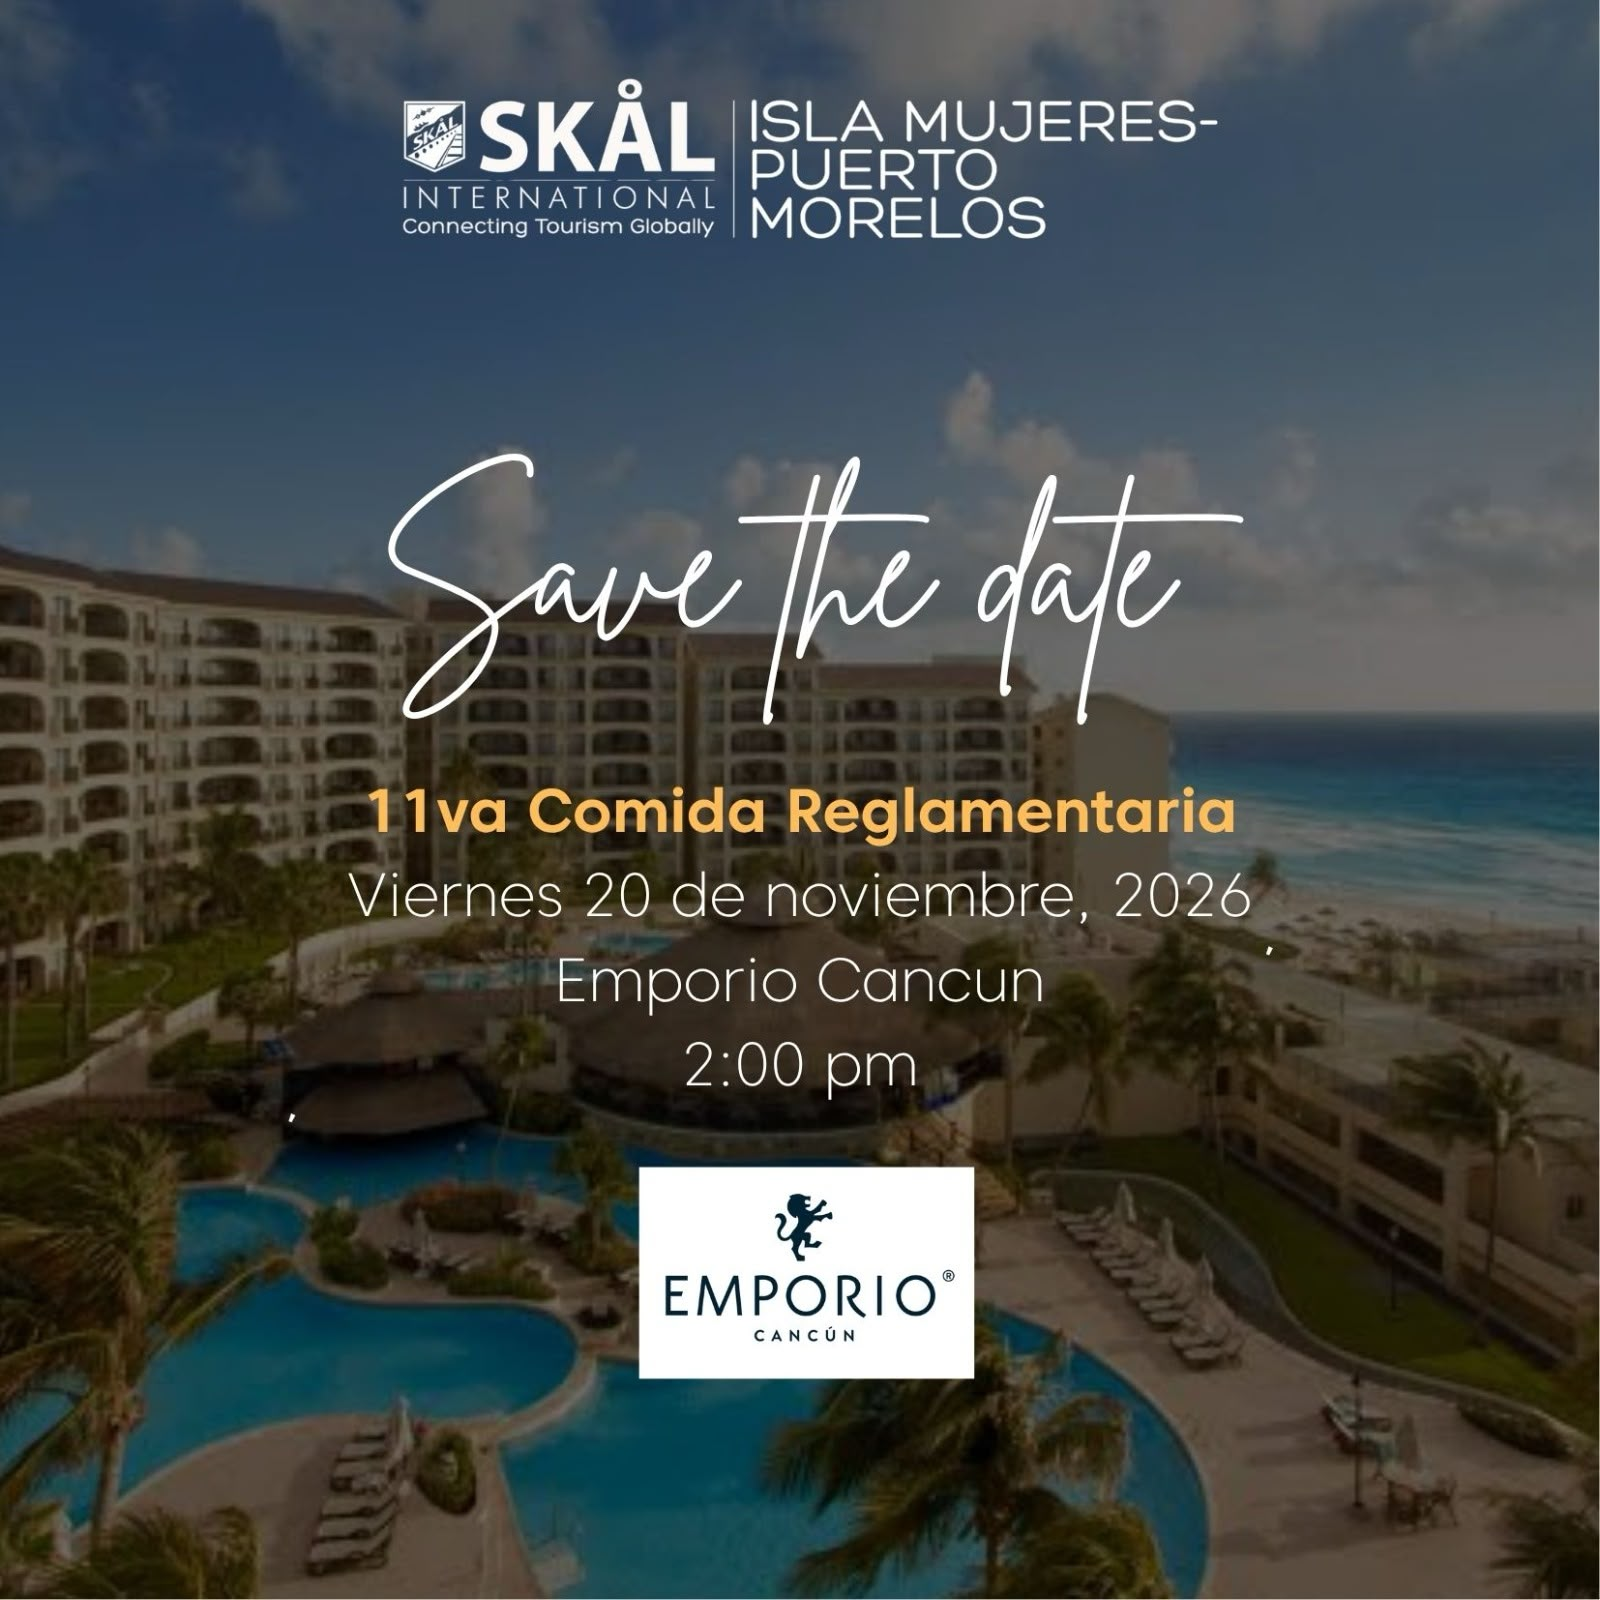
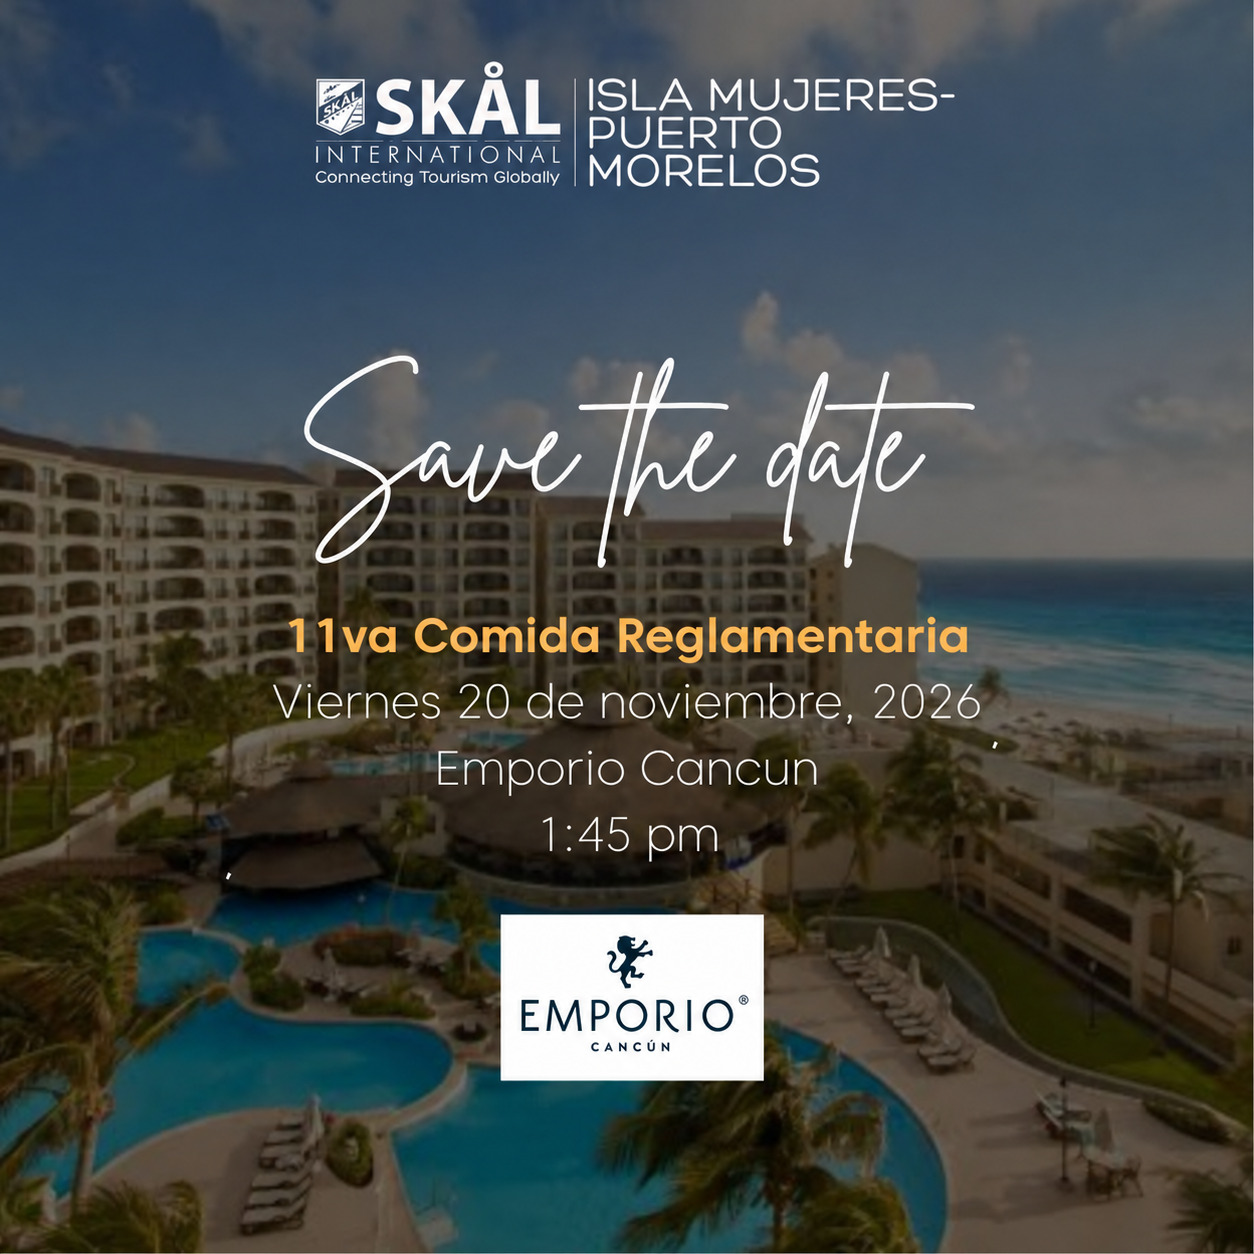
Update November comida schedule

diff --git a/comida-noviembre-2026.html b/comida-noviembre-2026.html
@@ -51,7 +51,7 @@
                         </div>
                         <div class="detail-item">
                             <span class="icon">&#128336;</span>
-                            <span><strong>Horario:</strong> 2:00 PM</span>
+                            <span><strong>Horario:</strong> Llegada 12:30 PM · Asamblea 1:00 PM · Comida 1:45 PM</span>
                         </div>
                         <div class="detail-item">
                             <span class="icon">&#128205;</span>
@@ -65,7 +65,7 @@
                             Te invitamos a nuestra 11va Comida Reglamentaria del año en el Hotel Emporio Cancún. Una nueva oportunidad para reunirnos con nuestros Skålleagues, hacer networking y fortalecer lazos profesionales.
                         </p>
                         <p style="margin-top: 15px; line-height: 1.8;">
-                            <strong>Asamblea:</strong> este día se celebra la asamblea del club para continuar el proceso electoral. Pedimos a los socios llegar 40 minutos antes de la comida (1:20 PM). La asamblea inicia a la 1:30 PM en los salones del hotel y la comida a las 2:00 PM.
+                            <strong>Asamblea:</strong> este día se celebra la asamblea del club para continuar el proceso electoral. Pedimos a los socios llegar a las 12:30 PM. La asamblea inicia a la 1:00 PM en los salones del hotel y la comida a la 1:45 PM.
                         </p>
                         <p style="margin-top: 15px; line-height: 1.8;">
                             Si asistes con invitado, tu invitado no participa en la asamblea. Puede unirse a partir de la comida.

diff --git a/noticia-candidaturas-2027-nov-2026.html b/noticia-candidaturas-2027-nov-2026.html
@@ -56,7 +56,7 @@
                         <li><strong>Auditor 2 2027:</strong> Yasmín Campos</li>
                     </ul>
 
-                    <p>La asamblea se celebrará el <strong>viernes 20 de noviembre a la 1:30 de la tarde</strong> en los salones del Hotel Emporio, para dar continuidad al proceso electoral conforme a la convocatoria y los estatutos vigentes. Pedimos a los socios llegar 40 minutos antes de la comida (1:20 PM). La comida inicia a las 2:00 PM. Los invitados no participan en la asamblea.</p>
+                    <p>La asamblea se celebrará el <strong>viernes 20 de noviembre a la 1:00 de la tarde</strong> en los salones del Hotel Emporio, para dar continuidad al proceso electoral conforme a la convocatoria y los estatutos vigentes. Pedimos a los socios llegar a las 12:30 PM. La comida inicia a la 1:45 PM. Los invitados no participan en la asamblea.</p>
 
                     <p><a href="comida-noviembre-2026.html">Ver detalles de la 11va Comida Reglamentaria y confirmar asistencia</a></p>
 

diff --git a/noticias.html b/noticias.html
@@ -132,7 +132,7 @@
                             <div class="news-card-body">
                                 <p class="date">12 de Noviembre, 2026</p>
                                 <h3>Candidaturas registradas para la mesa directiva 2027</h3>
-                                <p>Asamblea el viernes 20 de noviembre a la 1:30 PM en el Hotel Emporio. Llegar 40 minutos antes de la comida; los invitados no participan en la asamblea.</p>
+                                <p>Asamblea el viernes 20 de noviembre a la 1:00 PM en el Hotel Emporio. Llegar a las 12:30 PM; los invitados no participan en la asamblea. La comida inicia a la 1:45 PM.</p>
                                 <span class="read-more">Leer más &rarr;</span>
                             </div>
                         </article>

diff --git a/comidas.html b/comidas.html
@@ -58,7 +58,7 @@
                         </div>
                         <div class="event-info">
                             <h3>11va Comida Reglamentaria</h3>
-                            <p><strong>Hotel Emporio Cancún</strong><br>2:00 PM (asamblea 1:30 PM, llegar 1:20 PM)<br>Undécima comida reglamentaria del año</p>
+                            <p><strong>Hotel Emporio Cancún</strong><br>1:45 PM (asamblea 1:00 PM, llegar 12:30 PM)<br>Undécima comida reglamentaria del año</p>
                             <span style="display: inline-block; margin-top: 10px; color: #65A8DE; font-weight: 600; font-size: 0.9rem;">Ver detalles y RSVP &rarr;</span>
                         </div>
                     </a>

diff --git a/index.html b/index.html
@@ -68,7 +68,7 @@
                         </div>
                         <div class="event-info">
                             <h3>11va Comida Reglamentaria</h3>
-                            <p>Hotel Emporio Cancún | 2:00 PM</p>
+                            <p>Hotel Emporio Cancún | 1:45 PM</p>
                             <span style="display: inline-block; margin-top: 8px; color: #65A8DE; font-weight: 600; font-size: 0.85rem;">RSVP &rarr;</span>
                         </div>
                     </a>
